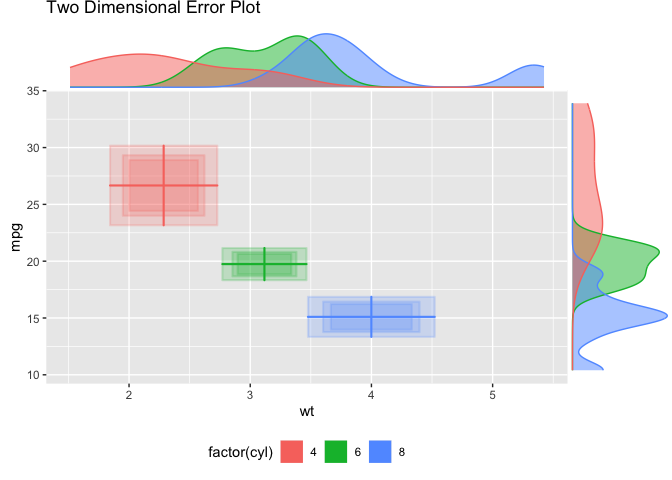
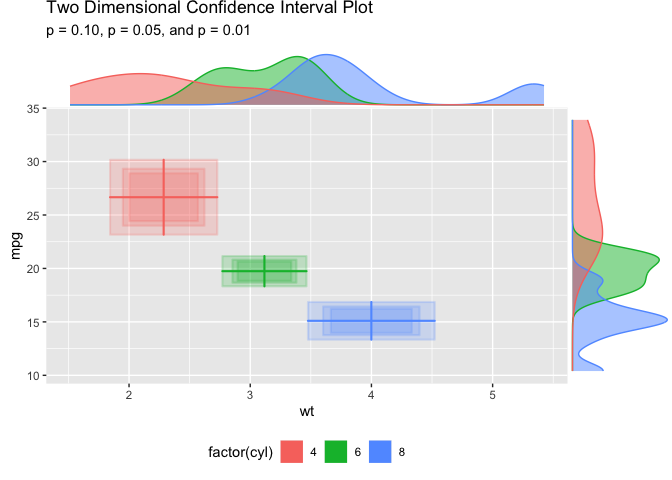
Fixed package name change.

diff --git a/README.md b/README.md
@@ -13,8 +13,7 @@ remotes::install_github('jbryer/ggBoxes')
 Basic example using the `mtcars` dataset.
 
 ``` r
-library(ggBoxplot2d)
-#> Loading required package: ggplot2
+library(ggBoxes)
 data(mtcars)
 ggplot(mtcars, aes(x = wt, y = mpg, group = factor(cyl),
                    color = factor(cyl), fill = factor(cyl))) +
@@ -32,7 +31,8 @@ p <- ggplot(mtcars, aes(x = wt, y = mpg, group = factor(cyl),
                    color = factor(cyl), fill = factor(cyl))) +
     geom_errorbox2d() +
     theme(legend.position = 'bottom') +
-    ggtitle('Two Dimensional Error Plot')
+    ggtitle('Two Dimensional Confidence Interval Plot', 
+            subtitle = 'p = 0.10, p = 0.05, and p = 0.01')
 ggExtra::ggMarginal(p + geom_point(alpha = 0), 
                     type = 'density', 
                     groupColour = TRUE, 
